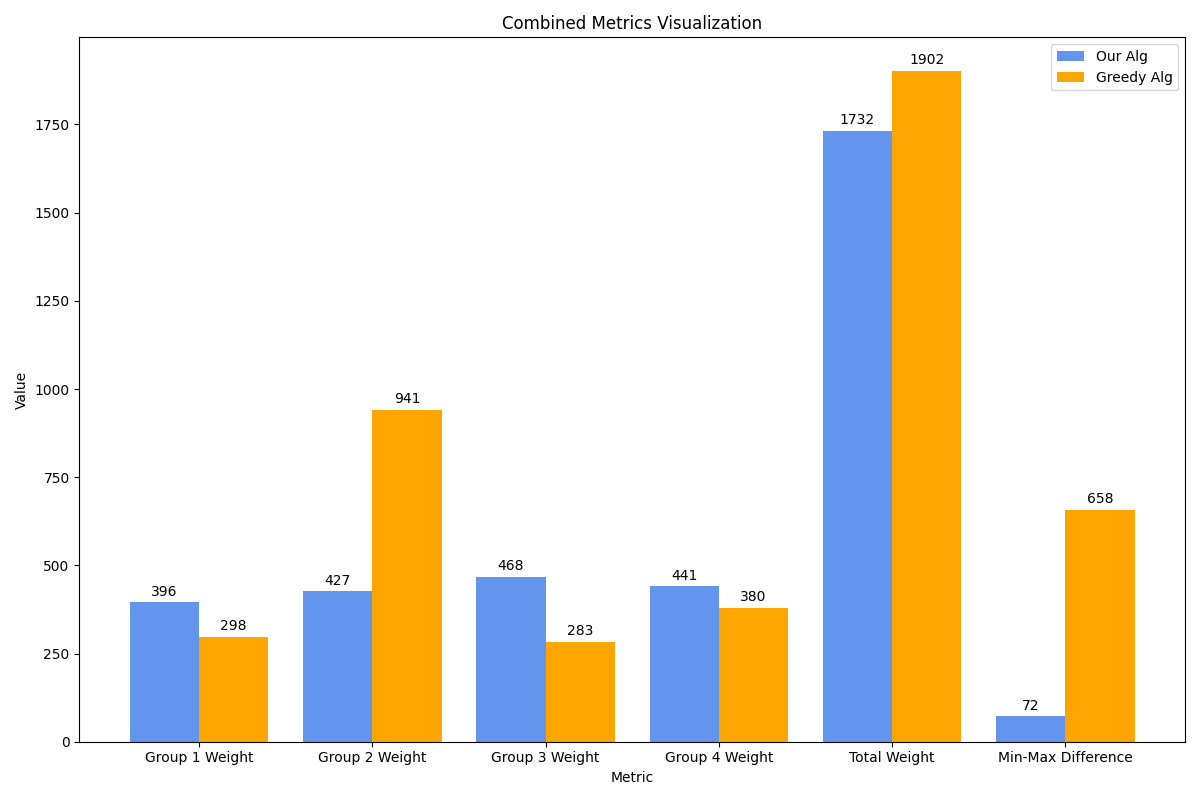
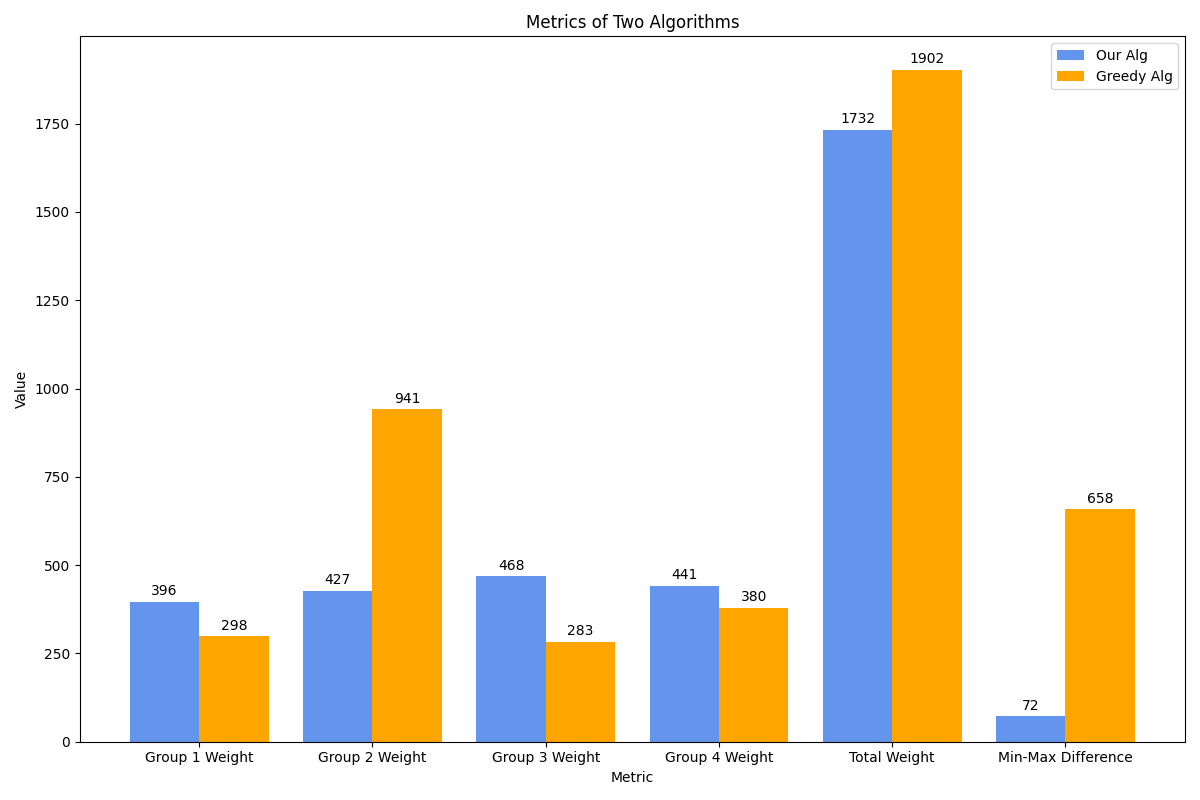
0427 update 2

diff --git a/draw_plot.py b/draw_plot.py
@@ -1,6 +1,6 @@
 import matplotlib.pyplot as plt
 
-def draw_plot(data1, data2):
+def draw_plot(data1, data2, title, name):
 
     # Extracting keys and values for the plot
     groups = list(data1.keys())
@@ -44,11 +44,11 @@ def draw_plot(data1, data2):
     # Setting chart details
     ax.set_xlabel('Metric')
     ax.set_ylabel('Value')
-    ax.set_title('Combined Metrics Visualization')
+    ax.set_title(title)
     ax.set_xticks(index)
     ax.set_xticklabels(group_labels)
     ax.legend()
 
     plt.tight_layout()
     plt.show()
-    fig.savefig('combined_metrics_visualization.png')
+    fig.savefig(name)

diff --git a/priority_algorithm.py b/priority_algorithm.py
@@ -194,7 +194,7 @@ def main(groups, agents, vertex):
 if __name__ == "__main__":
     groups = 4
     agents = 100
-    vertex = 200
+    vertex = 20
     data_p, data_g = main(groups, agents, vertex)
-    draw_plot(data_p, data_g)
+    draw_plot(data_p, data_g, 'Metrics of Two Algorithms', 'combined_metrics_visualization_20.png')
 
